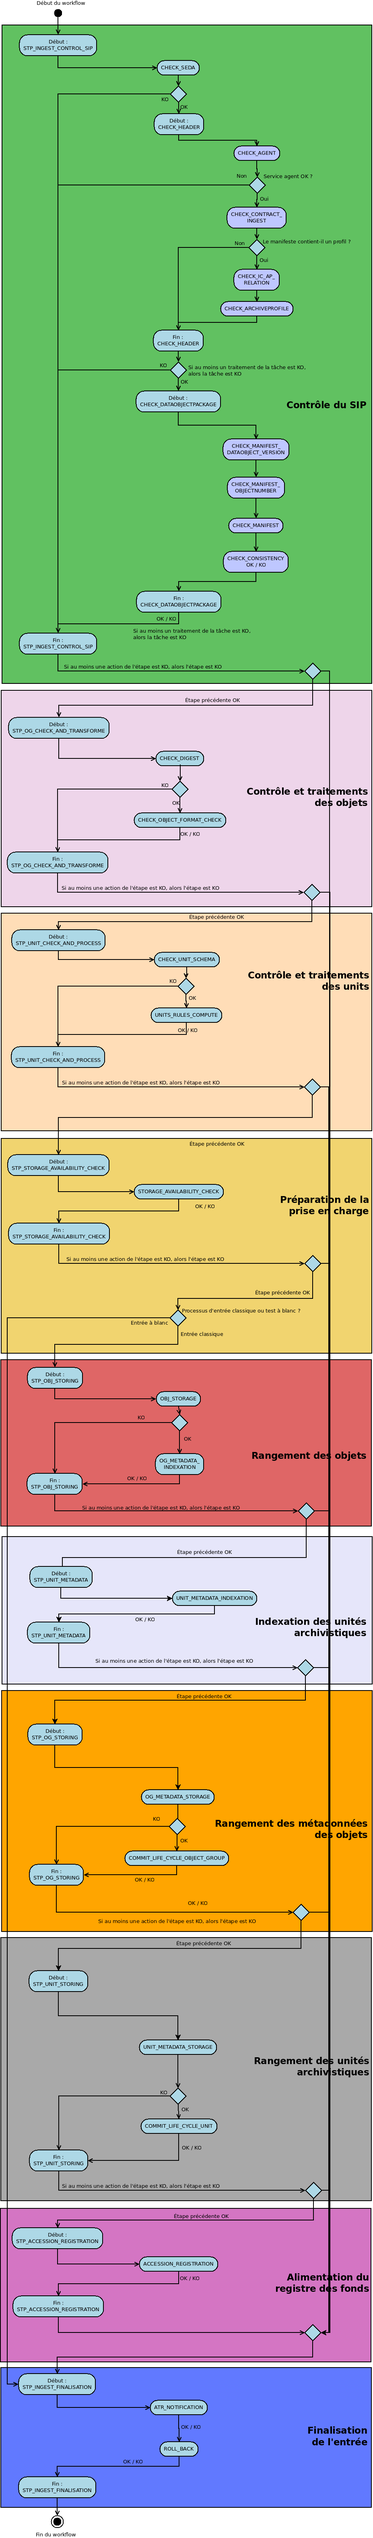
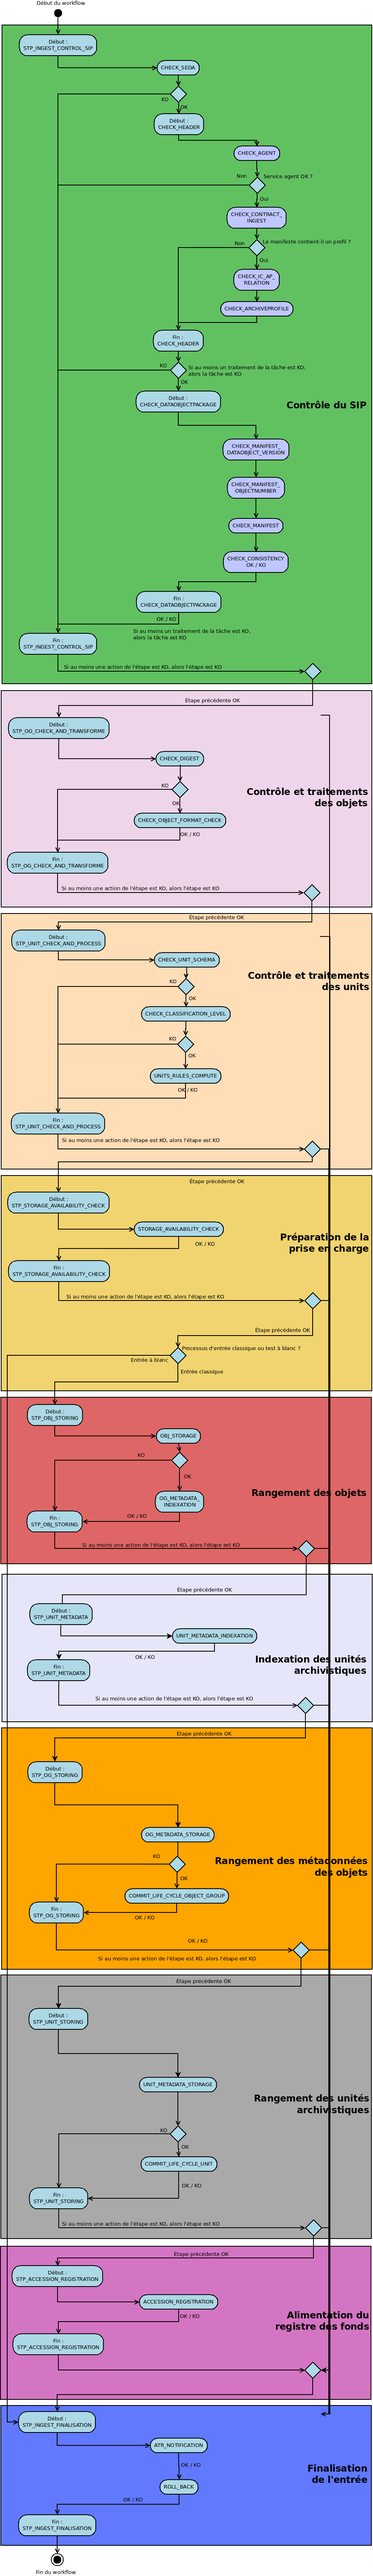
Documentation update for IT29

Changed region(s): [[0.0, 0.0311, 1.0, 1.0], [0.4229, 0.0311, 0.5437, 0.0622], [0.1208, 0.0, 0.2114, 0.0311]]

diff --git a/doc/fr/manuel-utilisateur/Authentification.rst b/doc/fr/manuel-utilisateur/Authentification.rst
@@ -11,16 +11,25 @@ Le système comporte actuellement deux niveaux d'authentification :
 Connexion
 =========
 
-Pour s'identifier à l'IHM de la solution logicielle Vitam, l'utilisateur doit saisir son identifiant et son mot de passe dans les champs du même nom.
-Pour des mesures de sécurité, le mot de passe saisi ne s'affichera pas en toutes lettres.
+L'utilisateur de la solution logicielle Vitam peut s'authentifier de une ou deux façons différentes, selon le paramétrage qui a été effectué. Il est possible de se connecter en utilisant un login et un mot de passe, ou de se connecter en utilisant un certificat.
 
-L'utilisateur doit également choisir le tenant sur lequel il souhaite se connecter, en utilisant le sélecteur à la droite des champs "Identifiant" et "Mot de passe". Le tenant correspond à un espace réservé à une entité utilisatrice. Par exemple, un lot d'archives versé dans le tenant numéro deux ne sera pas consultable depuis les autres tenants.
-
-Cliquer sur le bouton "Connexion" permet de lancer l'authentification.
+Dans les deux cas, l'utilisateur doit choisir le tenant sur lequel il souhaite se connecter, en utilisant le sélecteur "Tenant de la session". Le tenant correspond à un espace réservé à une entité utilisatrice. Par exemple, un lot d'archives versé dans le tenant numéro deux ne sera pas consultable depuis les autres tenants.
 
 |
 
+
 .. image:: images/form_login.png
+
+
+Par défaut, après connexion, la page "Transfert de SIP et plan de classement" est affichée.
+
+Authentification par identifiant
+-------------------------------------
+
+Pour s'identifier à l'IHM de la solution logicielle Vitam dans ce mode d'authentification, l'utilisateur doit saisir son identifiant et son mot de passe dans les champs du même nom.
+Pour des mesures de sécurité, le mot de passe saisi ne s'affichera pas en toutes lettres.
+
+Cliquer sur le bouton "Connexion" permet de lancer l'authentification.
 
 Lorsque le couple Identifiant/Mot de passe n'est pas cohérent, c'est-à-dire :
 
@@ -33,7 +42,12 @@ Alors, un message d'erreur s'affiche à l'écran, demandant à l'utilisateur de 
 
 .. image:: images/form_login_ko.png
 
-Par défaut, après connexion, la page "Transfert de SIP et plan de classement" est affichée.
+Authentification par certificat
+-------------------------------------
+
+Pour utiliser ce mode d'authentification, l'utilisateur doit détenir un certificat délivré par son service informatique. En cliquant simplement sur le bouton de connexion, il sera alors authentifié. Si l'utilisateur utilise un mauvais certificat ou n'utilise pas de certificat, un message d'erreur est affiché pour notifier de cette erreur.
+
+|
 
 Si l'utilisateur souhaite accéder à la plate-forme en saisissant une URL menant à une page de la solution logicielle Vitam, une fois l'authentification effectuée, il sera redirigé vers la page demandée.
 Si la session de l'utilisateur est expirée (la durée de la session en cas d'inactivité est de 30 minutes, non paramétrable par le métier), il devra s'authentifier de nouveau et accédera directement à la dernière page consultée.
@@ -58,7 +72,7 @@ Deux niveaux de permissions sont gérés au travers des rôles suivants :
 .. image:: images/menu_admin.png
 
 **User** : permet d'accéder aux fonctionnalités suivantes :
-	
+
 - Transfert d'archives (en prodcution seulement)
 - Transfert de plan de classement
 - Suivi des opérations d'entrée
@@ -69,7 +83,7 @@ Deux niveaux de permissions sont gérés au travers des rôles suivants :
 - Consultation des journaux d'opération
 
 Mais n'a pas la possibilité de transférer un SIP en mode "Pas à pas".
-	  
+
 |
 
 .. image:: images/menu_user.png

diff --git a/doc/fr/workflow-model/ingest/workflow.rst b/doc/fr/workflow-model/ingest/workflow.rst
@@ -304,6 +304,21 @@ Vérification globale de l'unité archivistique (CHECK_UNIT_SCHEMA)
 
   - FATAL : une erreur technique est survenue lors de la vérification de l'unité archivistique (CHECK_UNIT_SCHEMA.FATAL ==Erreur fatale lors de la vérification globale de l'unité archivistique)
 
+Vérification du niveau de classification (CHECK_CLASSIFICATION_LEVEL)
+~~~~~~~~~~~~~~~~~~~~~~~~~~~~~~~~~~~~~~~~~~~~~~~~~~~~~~~~~~~~~~~~~~~~~~~~~~~~~~~~~~~~~~~
+
++ **Règle** : vérification des niveaux de classification associés, si il existe, aux unités archivistiques. Ces niveaux doivent exister dans la liste des niveaux de classifications autorisés par la plateforme (paramètre configuré dans la configuration des workers). Pour les unités archivistiques sans niveau de classification, la vérification contrôle que la plateforme autorise le versement d'unités archivistiques sans niveau de classification.
+
++ **Type** : bloquant
+
++ **Statuts** :
+
+  - OK : les unités archivistiques versées ont un niveau de classification autorisé par la plateforme. Si il existe dans le SIP des unités archivistiques sans niveau de classification, c'est que la plateforme autorise le versement d'unités archivistiques sans niveau de classifications. (CHECK_CLASSIFICATION_LEVEL.OK=Succès de la vérification du niveau de classification)
+
+  - KO : au moins une unité archivistique du SIP possède un niveau de classification qui n'est pas un niveau de classification autorisé par la plateforme, ou une unité archivistique n'a pas de niveau de classification alors que la plateforme requiert que toutes les unités archivistiques possèdent un niveau de classification. (CHECK_CLASSIFICATION_LEVEL.KO=Échec de la vérification du niveau de classification, non autorisés par la plateforme)
+
+  - FATAL : une erreur technique est survenue lors de la vérification des niveaux de classifications (CHECK_CLASSIFICATION_LEVEL.FATAL=Erreur fatale lors de la vérification du niveau de classification)
+
 Application des règles de gestion et calcul des dates d'échéances (UNITS_RULES_COMPUTE)
 ~~~~~~~~~~~~~~~~~~~~~~~~~~~~~~~~~~~~~~~~~~~~~~~~~~~~~~~~~~~~~~~~~~~~~~~~~~~~~~~~~~~~~~~
 

diff --git a/doc/fr/workflow-model/masterdata/rules.rst b/doc/fr/workflow-model/masterdata/rules.rst
@@ -50,6 +50,7 @@ De plus le fichier rempli les conditions suivantes :
       * Au moins un champs RuleDuration a une valeur incorrecte (STP_IMPORT_RULES_WRONG_RULEDURATION.KO)
       * L'association de RuleDuration et de RuleMeasurement doit être  inférieure ou égale à 999 ans (STP_IMPORT_RULES_WRONG_TOTALDURATION.KO)
       * Des règles supprimées sont actuellement utilisées (STP_IMPORT_RULES_DELETE_USED_RULES.KO)
+      * Des durées sont inférieures ou égales aux durées minimales autorisées dans la configuration de la plateforme (STP_IMPORT_RULES_RULEDURATION_EXCEED.KO). Ce cas provoque de plus une alerte de sécurité, enregistrée dans les logs de sécurité.
 
     - FATAL : une erreur technique est survenue lors du contrôle des règles de gestion (CHECK_RULES.FATAL=Erreur fatale lors du contrôle de la conformité du fichier de règles de gestion)
 

diff --git a/doc/fr/workflow-model/masterdata/introduction.rst b/doc/fr/workflow-model/masterdata/introduction.rst
@@ -2,3 +2,4 @@ Introduction
 ############
 
 Cette section présente les workflows d'administration des différents référentiels de la solution logicielle Vitam. Ceux-ci se construisent sur la base de fichiers à importer. La structure de ces fichiers et la description de leurs contenus est décrit dans la documentation relative au modèle de données.
+Si un des fichiers importés contient des balises HTML, son contenu sera considéré comme dangereux et l'import sera rejeté. Ce rejet ne fera pas l'objet d'une opération et ne sera donc pas enregistré dans le journal des opérations. En revanche, une alerte de sécurité sera émise dans un log de sécurité de la solution logicielle Vitam, pour en informer l'administrateur de cette tentative.
